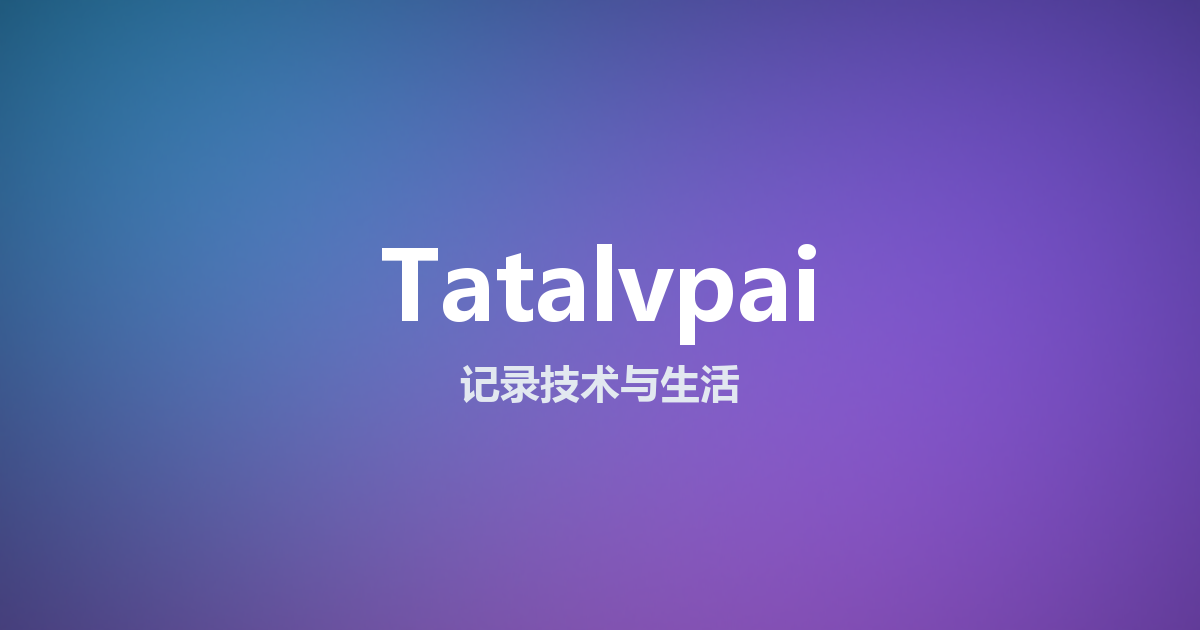
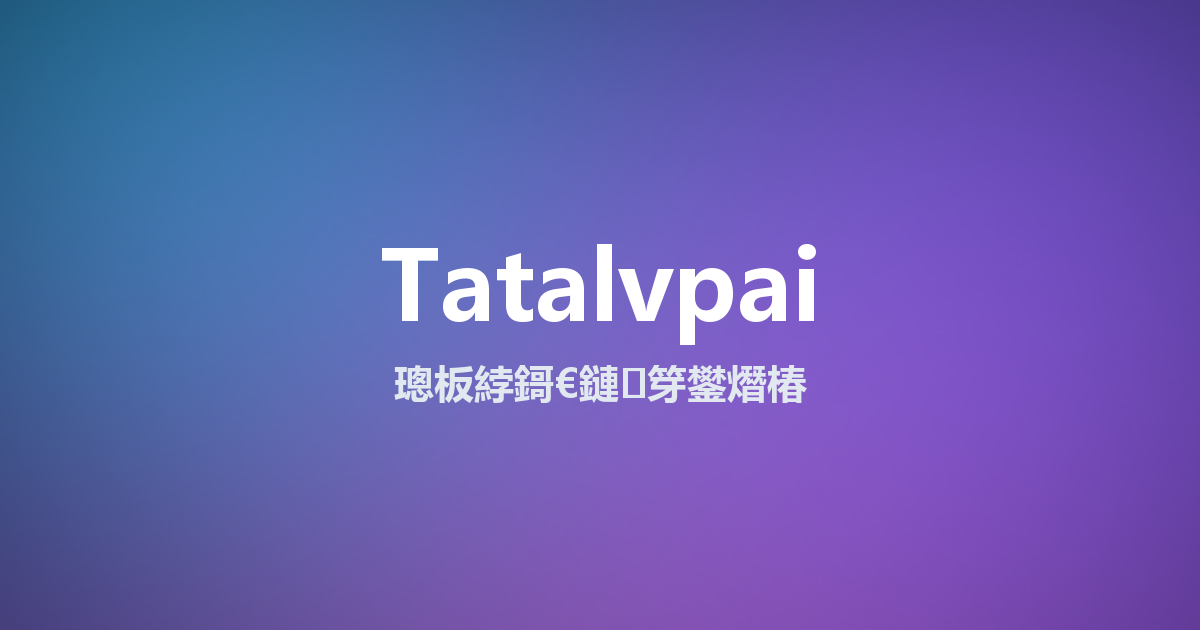
feat(theme): 重构首页版面，补齐封面与图标云
- 启用 home_top：标语卡 + 技术图标云 + 推荐卡 + 分类快捷入口
- 首屏高度调为 56vh，开启副标题打字效果并关闭第三方一言接口
- 新增 6 张文章封面、推荐卡图与 creativity 数据（图标自托管）
- 关闭 console 浮层；修正建站天数；移除主题作者收款码
- 新增 custom.css 修复图标云溢出、摘要塌陷、卡片重叠
- 新增文章《这个博客是怎么搭起来的》

Changed region(s): [[0.3083, 0.573, 0.6783, 0.6635]]

diff --git a/source/css/custom.css b/source/css/custom.css
@@ -1,0 +1,60 @@
+/* ==========================================================================
+   站点自定义样式（优先于主题样式生效）
+   ========================================================================== */
+
+/* 首页横幅：图标云裁切在卡片内，避免溢出到分类按钮上 */
+#random-banner {
+  overflow: hidden;
+}
+
+/* 标语压在图标云之上 */
+#random-banner .banners-title {
+  position: relative;
+  z-index: 2;
+}
+
+#random-banner #skills-tags-group-all {
+  z-index: 1;
+  pointer-events: none;
+}
+
+/* 图标云上移，填满卡片中部的留白 */
+#random-banner #skills-tags-group-all .tags-group-wrapper {
+  margin-top: 2.2rem;
+}
+
+/* 窄屏下图标云会挤压标题，直接隐藏 */
+@media screen and (max-width: 768px) {
+  #random-banner #skills-tags-group-all {
+    display: none;
+  }
+}
+
+/* 文章卡片标题最多两行，避免高矮不齐 */
+#recent-posts .recent-post-item .article-title {
+  overflow: hidden;
+  display: -webkit-box;
+  -webkit-line-clamp: 2;
+  line-clamp: 2;
+  -webkit-box-orient: vertical;
+}
+
+/* 首页文章摘要：主题默认把它 opacity:0 / height:0 隐藏，这里还原成一行。
+   注意 Chrome 155 起 display:-webkit-box 已失效，改用 block + max-height 截断；
+   底部信息行是绝对定位的，摘要只能占一行，否则会压到标签/时间上。 */
+#content-inner #recent-posts > .recent-post-item > .recent-post-info > .content {
+  display: block;
+  height: auto;
+  max-height: 1.7em;
+  opacity: 1;
+  overflow: hidden;
+  margin-top: 0.4rem;
+  padding-right: 5.5rem;
+  color: var(--anzhiyu-secondtext);
+  font-size: 0.88rem;
+  line-height: 1.6;
+  white-space: nowrap;
+  text-overflow: ellipsis;
+  -webkit-line-clamp: unset;
+  line-clamp: unset;
+}

diff --git a/tools/gen-assets.py b/tools/gen-assets.py
@@ -66,8 +66,8 @@ def build_banner() -> Path:
     img = Image.fromarray(np.clip(canvas, 0, 255).astype(np.uint8), "RGB")
     img = img.filter(ImageFilter.GaussianBlur(4))
 
-    path = OUT / "banner.png"
-    img.save(path, optimize=True)
+    path = OUT / "banner.jpg"
+    img.save(path, quality=86, optimize=True, progressive=True)
     return path
 
 
@@ -127,7 +127,7 @@ def build_og() -> Path:
         fill=(255, 255, 255),
     )
 
-    sub = "记录技术与生活"
+    sub = "璁板綍鎶€鏈笌鐢熸椿"
     box = draw.textbbox((0, 0), sub, font=sub_font)
     draw.text(
         ((w - (box[2] - box[0])) / 2 - box[0], h / 2 + 40),
@@ -171,9 +171,87 @@ FAVICON = """<svg xmlns="http://www.w3.org/2000/svg" viewBox="0 0 64 64" width="
 """
 
 
+COVER_PALETTES = [
+    ((23, 37, 84), (13, 116, 144)),
+    ((76, 29, 149), (190, 24, 93)),
+    ((6, 78, 59), (5, 150, 105)),
+    ((120, 53, 15), (190, 18, 60)),
+    ((30, 58, 138), (109, 40, 217)),
+    ((15, 23, 42), (67, 56, 202)),
+]
+
+
+def _vignette(canvas: np.ndarray, strength: float = 0.30) -> np.ndarray:
+    h, w, _ = canvas.shape
+    ys, xs = np.mgrid[0:h, 0:w]
+    nx = (xs - w / 2) / (w / 2)
+    ny = (ys - h / 2) / (h / 2)
+    return canvas * (1.0 - strength * np.clip(nx**2 + ny**2, 0, 1.6) ** 1.1)[:, :, None]
+
+
+def _cover(top: tuple[int, int, int], bottom: tuple[int, int, int], w: int = 1000, h: int = 625) -> Image.Image:
+    canvas = gradient(w, h, top, bottom)
+    add_blob(canvas, w * 0.18, h * 0.22, w * 0.28, (255, 255, 255), 0.16)
+    add_blob(canvas, w * 0.88, h * 0.82, w * 0.30, (255, 255, 255), 0.12)
+    add_blob(canvas, w * 0.62, h * 0.05, w * 0.22, (255, 255, 255), 0.08)
+    canvas = _vignette(canvas, 0.34)
+    canvas += np.random.default_rng(hash((top, bottom)) % 1000).normal(0, 1.8, canvas.shape)
+
+    img = Image.fromarray(np.clip(canvas, 0, 255).astype(np.uint8), "RGB")
+    draw = ImageDraw.Draw(img, "RGBA")
+    step = 42
+    for x in range(-h, w + h, step):
+        draw.line([(x, 0), (x + h, h)], fill=(255, 255, 255, 12), width=1)
+
+    return img.filter(ImageFilter.GaussianBlur(0.6))
+
+
+def build_covers() -> list[Path]:
+    out_dir = OUT / "cover"
+    out_dir.mkdir(parents=True, exist_ok=True)
+    paths = []
+    for index, (top, bottom) in enumerate(COVER_PALETTES, start=1):
+        path = out_dir / f"{index}.jpg"
+        _cover(top, bottom).save(path, quality=86, optimize=True, progressive=True)
+        paths.append(path)
+    return paths
+
+
+def build_todaycard() -> Path:
+    """Promo card shown at the right of the home hero."""
+    w, h = 1200, 680
+    canvas = gradient(w, h, (12, 16, 40), (55, 28, 96))
+    add_blob(canvas, w * 0.10, h * 0.15, 420, (34, 211, 238), 0.45)
+    add_blob(canvas, w * 0.92, h * 0.42, 460, (168, 85, 247), 0.48)
+    add_blob(canvas, w * 0.45, h * 1.05, 480, (236, 72, 153), 0.30)
+    canvas = _vignette(canvas, 0.30)
+    canvas += np.random.default_rng(21).normal(0, 1.6, canvas.shape)
+
+    img = Image.fromarray(np.clip(canvas, 0, 255).astype(np.uint8), "RGB")
+    draw = ImageDraw.Draw(img, "RGBA")
+    for x in range(-h, w + h, 56):
+        draw.line([(x, 0), (x + h, h)], fill=(255, 255, 255, 10), width=1)
+
+    # darken the lower part so overlaid white text stays readable
+    shade = Image.new("L", (w, h), 0)
+    sd = ImageDraw.Draw(shade)
+    for y in range(h):
+        alpha = int(120 * max(0.0, (y - h * 0.45) / (h * 0.55)) ** 1.5)
+        sd.line([(0, y), (w, y)], fill=alpha)
+    img = Image.composite(Image.new("RGB", (w, h), (8, 10, 24)), img, shade)
+
+    img = img.filter(ImageFilter.GaussianBlur(0.6))
+    path = OUT / "todaycard.jpg"
+    img.save(path, quality=86, optimize=True, progressive=True)
+    return path
+
+
 def main() -> None:
-    for builder in (build_banner, build_avatar, build_og):
+    for builder in (build_banner, build_avatar, build_og, build_todaycard):
         path = builder()
+        print(f"{path.relative_to(ROOT)}  {path.stat().st_size / 1024:.1f} KiB")
+
+    for path in build_covers():
         print(f"{path.relative_to(ROOT)}  {path.stat().st_size / 1024:.1f} KiB")
 
     favicon = OUT / "favicon.svg"
@@ -183,3 +261,4 @@ def main() -> None:
 
 if __name__ == "__main__":
     main()
+

diff --git a/source/_posts/how-this-blog-was-built.md b/source/_posts/how-this-blog-was-built.md
@@ -1,0 +1,99 @@
+---
+title: 这个博客是怎么搭起来的
+date: 2026-10-24 13:00:00
+updated: 2026-10-24 13:00:00
+tags:
+  - Hexo
+  - GitHub Pages
+  - Cloudflare
+  - 备忘
+categories:
+  - 技术
+keywords: Hexo, anzhiyu, GitHub Pages, Cloudflare, 建站
+description: 记录整套建站与发布流程，方便以后复制或排查问题。
+cover: /img/cover/2.jpg
+top_group_list: 5
+top_img: false
+---
+
+把这套东西记下来，省得以后重装或者换机器时又要从头查一遍。
+
+## 技术栈
+
+| 环节 | 用的什么 |
+| --- | --- |
+| 生成器 | Hexo 8 |
+| 主题 | [anzhiyu](https://github.com/anzhiyu-c/hexo-theme-anzhiyu)（安知鱼） |
+| 构建 | GitHub Actions |
+| 托管 | GitHub Pages |
+| 域名 | Cloudflare DNS，证书由 Pages 自动签发 |
+
+## 目录约定
+
+```
+_config.yml            # 站点配置：标题、URL、搜索、订阅、站点地图
+_config.anzhiyu.yml    # 主题配置：菜单、横幅、首页卡片、侧边栏
+themes/anzhiyu/        # 主题本体，git submodule，不要直接改
+source/                # 文章和页面
+```
+
+主题用 submodule 管理，好处是版本锁定、仓库干净；代价是**克隆时必须带 `--recursive`**，否则 `themes/anzhiyu` 是空目录，构建直接失败。
+
+```bash
+git clone --recursive https://github.com/MinimaxFlora/blog.git
+# 已经克隆过、但主题目录是空的：
+git submodule update --init --recursive
+```
+
+## 发布流程
+
+推送到 `main` 就会触发 `.github/workflows/deploy.yml`：
+
+1. 检出代码，含 submodule
+2. `npm ci` 装依赖
+3. `npx hexo generate` 生成静态文件到 `public/`
+4. 上传 artifact，交给 `actions/deploy-pages` 发布
+
+整个过程一分半左右，不需要在本地构建后再推 `gh-pages` 分支。
+
+## 域名是怎么绑上的
+
+三步：
+
+1. `source/CNAME` 里写 `blog.tatalvpai.vip`，构建时会带到产物根目录
+2. Cloudflare 加一条 CNAME：`blog` → `minimaxflora.github.io`
+3. 仓库 Settings → Pages 里填自定义域名，等证书签发，然后勾上 Enforce HTTPS
+
+DNS 记录**先不要开橙色云朵**。开着代理时 GitHub 验证域名容易失败，证书签不出来；等证书下来了再考虑开代理，并且要把 SSL/TLS 模式设成 **Full (strict)**，否则会重定向循环。
+
+## 踩到的几个坑
+
+**1. 首屏大图的配置不是 URL**
+
+`index_img` 填的是一整条 CSS 声明，不是图片地址：
+
+```yaml
+index_img: "background: url(/img/banner.jpg) top / cover no-repeat"
+```
+
+**2. 新版 Chrome 里 `display: -webkit-box` 不生效了**
+
+主题用 `-webkit-line-clamp` 做多行截断，但把 `display: -webkit-box` 解析成了 `flow-root`，结果盒子高度直接塌成 0，摘要整段消失。改用 `display: block` + `max-height` 截断才正常。
+
+**3. 主题自带的演示内容要清掉**
+
+默认配置里有主题作者自己的收款码、网易云歌单、示例分类和推广横幅。不清掉的话，打赏弹窗里出现的就是别人的二维码。
+
+**4. 副标题的打字效果**
+
+`subtitle.source` 默认开启了第三方一言接口，国内访问不稳定，关掉用自定义文案更可靠。
+
+## 日常怎么写文章
+
+```bash
+npx hexo new "文章标题"   # 在 source/_posts/ 下生成
+npm run server            # 本地预览 localhost:4000
+git add -A && git commit -m "post: 文章标题" && git push
+```
+
+推上去就自动发布了，剩下的不用管。

diff --git a/source/_posts/hello-world.md b/source/_posts/hello-world.md
@@ -8,6 +8,8 @@ categories:
   - 生活
 keywords: 博客, 开始
 description: 博客的第一篇文章，聊聊为什么要写博客。
+cover: /img/cover/1.jpg
+top_group_list: 6
 top_img: false
 ---
 
